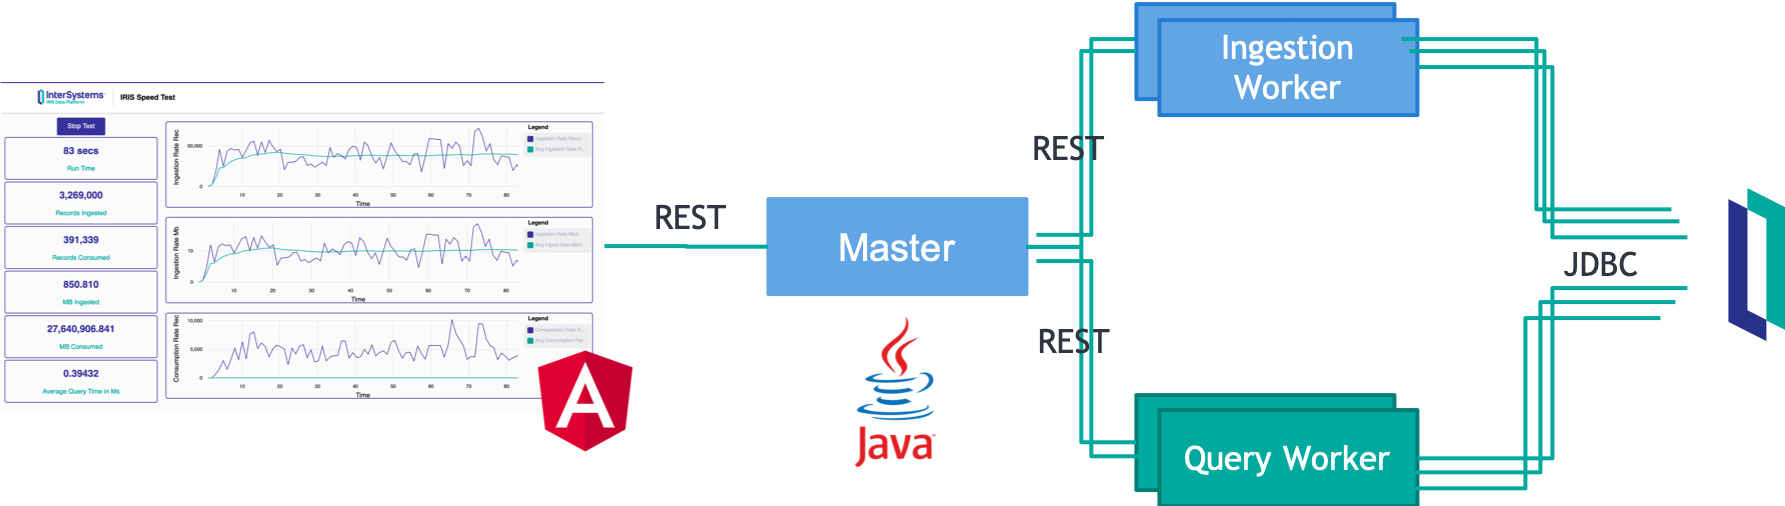
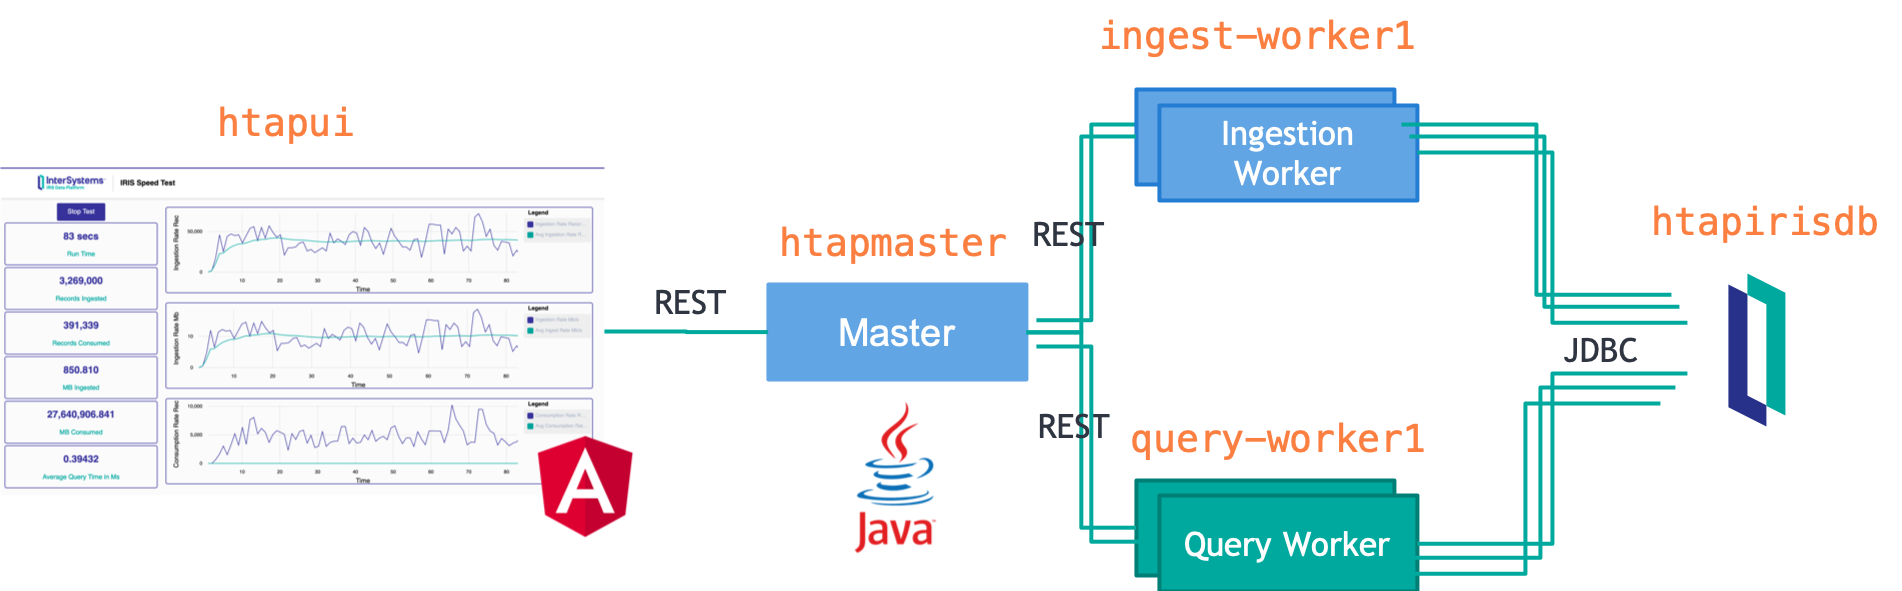
Documentation

Changed region(s): [[0.0, 0.0, 1.0, 1.0]]

diff --git a/README.md b/README.md
@@ -6,6 +6,19 @@ The picture bellow shows the architecture of the HTAP Demo:
 
 ![Demo Landing Page](https://raw.githubusercontent.com/intersystems-community/irisdemo-demo-htap/master/README.png?raw=true)
 
+Each This demo uses docker-compose to start four services:
+
+* htapui - this is the Angular UI you use to run the demo.
+* htapirisdb - this is IRIS Community! So you don't need an IRIS license to run this demo. But it is bad because IRIS Community has two important limitations:
+ - Max of 5 connections: So we won't be able to use a high number of threads
+ - Max Database size of 10Gb: So we won't be able to let the speed test run for too long
+* htapmaster - This is the HTAP Demo master. The UI talks to it and to start/stop the speed test.
+* ingest-worker1 - This is an ingestion worker. You can actually have more than one ingestion worker. Just give each one a different service name. They will try to flood IRIS with INSERTs.
+* query-worker1 - This is the a consumption worker. You can have more than one of these as well. 
+
+If you want to run the speed test demo on IRIS standard, there is an example of a docker-compose.yml file for it. But you are going to need an IRIS license to run it. The example is on iris-enterprise-docker-compose.xml.
+
+
 ## How to run the demo
 
 To just run the demo on your PC, make sure you have Docker installed on your machine. You can quickly get it up and running with the folloing commands:
@@ -33,20 +46,6 @@ When it is done, it will just hang there, without returning control to you. That
 After all the containers have started, open the it on [http://localhost:10000](http://localhost:10000).
 
 Just click on the **Run Test** button to run the HTAP Demo!
-
-# Architecture
-
-This demo uses docker-compose to start four services:
-
-* htapui - this is the Angular UI you use to run the demo.
-* htapirisdb - this is IRIS Community! So you don't need an IRIS license to run this demo. But it is bad because IRIS Community has two important limitations:
- - Max of 5 connections: So we won't be able to use a high number of threads
- - Max Database size of 10Gb: So we won't be able to let the speed test run for too long
-* htapmaster - This is the HTAP Demo master. The UI talks to it and to start/stop the speed test.
-* ingest-worker1 - This is an ingestion worker. You can actually have more than one ingestion worker. Just give each one a different service name. They will try to flood IRIS with INSERTs.
-* query-worker1 - This is the a consumption worker. You can have more than one of these as well. 
-
-If you want to run the speed test demo on IRIS standard, there is an example of a docker-compose.yml file for it. But you are going to need an IRIS license to run it. The example is on iris-enterprise-docker-compose.xml.
 
 # Report any Issues
 
